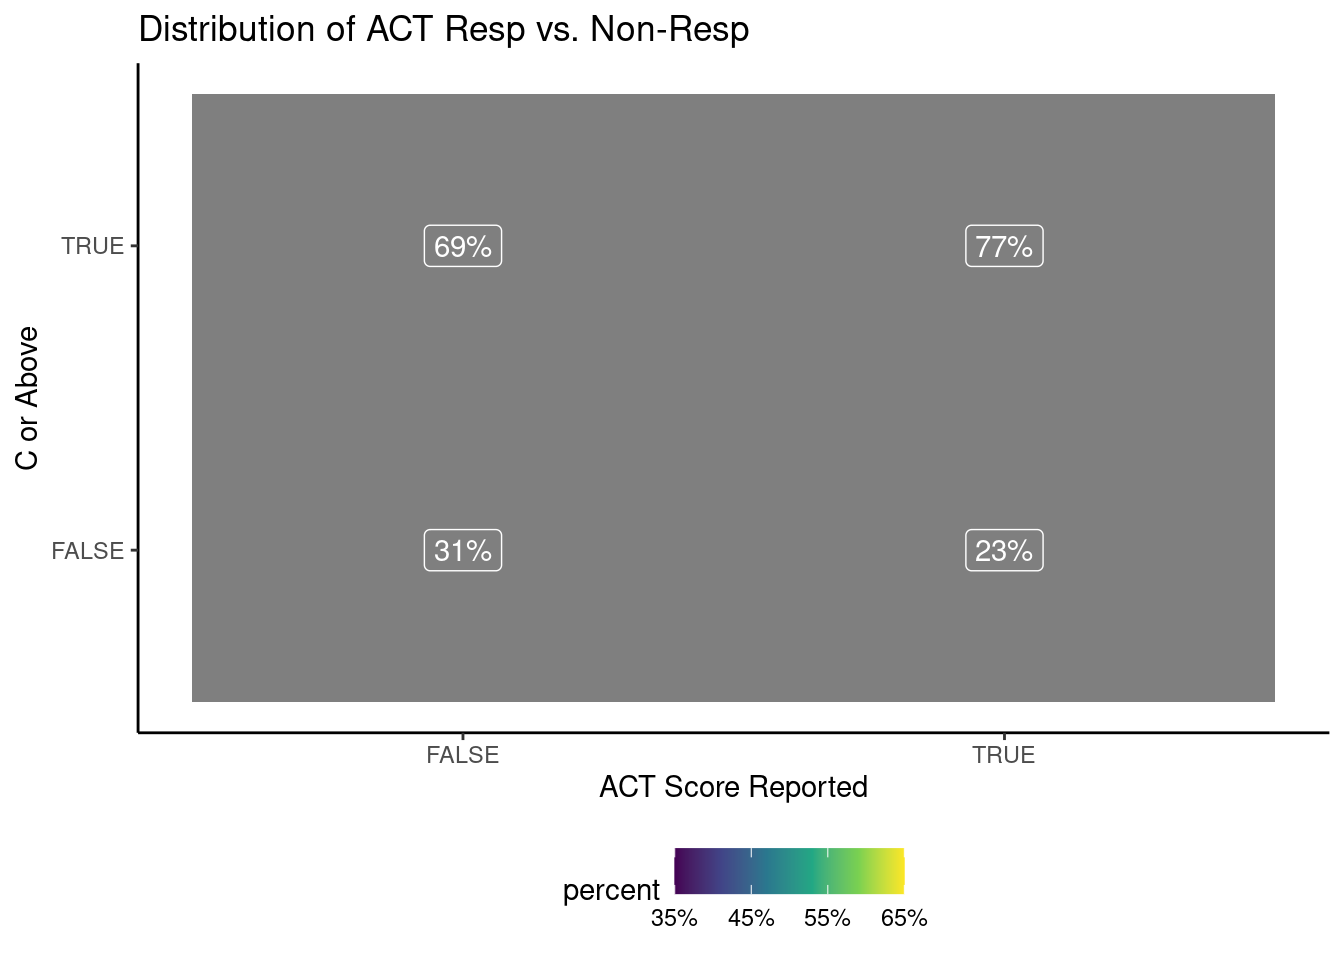
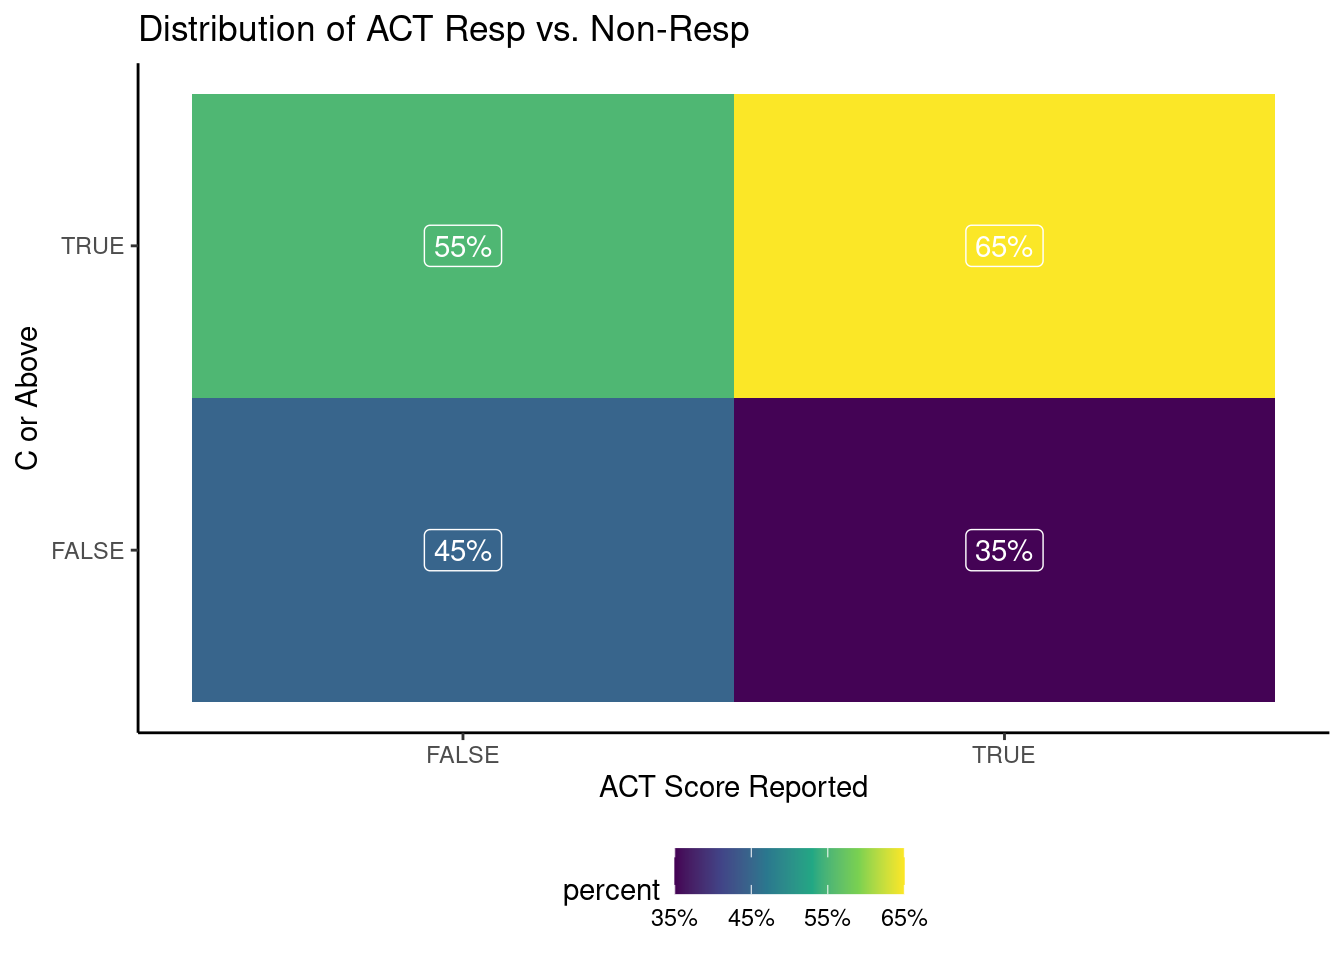
colors

diff --git a/content/post/2022-05-21-what-student-information-helps-predict-success-in-their-courses/index.html b/content/post/2022-05-21-what-student-information-helps-predict-success-in-their-courses/index.html
@@ -29,10 +29,10 @@ The nitty gritty of how the data was joined and cleaned
 <p>The resulting data set gives the first obstacle, handling <code>NA</code> values for numeric variables. On the one hand a scalar response lends itself to an elegant set of predictive methods, but at the same time not having a high school GPA entry is likely a significant indicator of academic success. The same goes for whether a student took the ACT or not. Even worse, the percentage of respondents missing one or the other are close to a quarter or a third.</p>
 <pre class="r"><code>lapply(cs[,.(act_score, hs_gpa_entry)], \(x) {length(x)/length(x[which(is.na(x))])})</code></pre>
 <pre><code>## $act_score
-## [1] 26.125
+## [1] 24.8786
 ## 
 ## $hs_gpa_entry
-## [1] 33.31884</code></pre>
+## [1] 32.27362</code></pre>
 <p>For each variable we will answer two questions that help us decide what to do next.</p>
 <ol style="list-style-type: decimal">
 <li>Is non-response predictive of course success?<br />
@@ -58,7 +58,7 @@ The nitty gritty of how the data was joined and cleaned
 ##  Pearson&#39;s Chi-squared test with Yates&#39; continuity correction
 ## 
 ## data:  table(copy(cs)[, .(act_na = is.na(act_score), success)])
-## X-squared = 17.788, df = 1, p-value = 2.469e-05</code></pre>
+## X-squared = 25.256, df = 1, p-value = 5.021e-07</code></pre>
 <p>We can see that the distribution of successful courses among students who have an ACT score is significantly different from those who did not report an ACT score. In fact, ACT reporting students are ~10% more likely to succeed.</p>
 <p>We will now look at the scalar portion of the variable by plotting the distribution of ACT scores against the official grades earned.</p>
 <pre class="r"><code>copy(cs) |&gt;
@@ -126,30 +126,30 @@ summary(m1)</code></pre>
 ## 
 ## Deviance Residuals: 
 ##     Min       1Q   Median       3Q      Max  
-## -2.1758   0.4437   0.6105   0.7812   1.1951  
+## -1.6830  -1.3553   0.8240   0.9391   1.3794  
 ## 
 ## Coefficients:
-##                                Estimate Std. Error z value Pr(&gt;|z|)    
-## (Intercept)                     0.91743    0.12320   7.447 9.57e-14 ***
-## act_score_factor(0,20]          0.15679    0.18300   0.857  0.39157    
-## act_score_factor(20,23]         0.24677    0.18168   1.358  0.17438    
-## act_score_factor(23,26]         0.01324    0.18362   0.072  0.94253    
-## act_score_factor(26,36]        -0.08667    0.18796  -0.461  0.64473    
-## hs_gpa_entry_factor(0.21,3.06] -0.25929    0.19736  -1.314  0.18891    
-## hs_gpa_entry_factor(3.06,3.42]  0.10000    0.19790   0.505  0.61335    
-## hs_gpa_entry_factor(3.42,3.76]  0.54155    0.19961   2.713  0.00667 ** 
-## hs_gpa_entry_factor(3.76,553]   1.10434    0.20298   5.441 5.31e-08 ***
-## hardship_score1                -0.34949    0.06815  -5.128 2.93e-07 ***
-## hardship_score2                -0.28039    0.06907  -4.059 4.92e-05 ***
-## hardship_score3                -0.61313    0.06405  -9.573  &lt; 2e-16 ***
+##                                 Estimate Std. Error z value Pr(&gt;|z|)    
+## (Intercept)                     0.267987   0.101069   2.652 0.008013 ** 
+## act_score_factor(0,20]          0.479640   0.145058   3.307 0.000945 ***
+## act_score_factor(20,23]         0.454296   0.143064   3.175 0.001496 ** 
+## act_score_factor(23,26]         0.138969   0.143963   0.965 0.334391    
+## act_score_factor(26,36]        -0.235107   0.145834  -1.612 0.106928    
+## hs_gpa_entry_factor(0.21,3.06]  0.005787   0.160164   0.036 0.971180    
+## hs_gpa_entry_factor(3.06,3.42]  0.183397   0.159372   1.151 0.249837    
+## hs_gpa_entry_factor(3.42,3.76]  0.376187   0.159420   2.360 0.018288 *  
+## hs_gpa_entry_factor(3.76,553]   0.390841   0.159927   2.444 0.014531 *  
+## hardship_score1                -0.281806   0.055104  -5.114 3.15e-07 ***
+## hardship_score2                -0.204608   0.056637  -3.613 0.000303 ***
+## hardship_score3                -0.502012   0.053537  -9.377  &lt; 2e-16 ***
 ## ---
 ## Signif. codes:  0 &#39;***&#39; 0.001 &#39;**&#39; 0.01 &#39;*&#39; 0.05 &#39;.&#39; 0.1 &#39; &#39; 1
 ## 
 ## (Dispersion parameter for binomial family taken to be 1)
 ## 
-##     Null deviance: 12002  on 11034  degrees of freedom
-## Residual deviance: 11493  on 11023  degrees of freedom
-## AIC: 11517
+##     Null deviance: 17041  on 13115  degrees of freedom
+## Residual deviance: 16745  on 13104  degrees of freedom
+## AIC: 16769
 ## 
 ## Number of Fisher Scoring iterations: 4</code></pre>
 <pre class="r"><code>?anova.glm
@@ -164,10 +164,10 @@ anova(m1, test = &quot;Chisq&quot;)</code></pre>
 ## 
 ## 
 ##                     Df Deviance Resid. Df Resid. Dev  Pr(&gt;Chi)    
-## NULL                                11034      12002              
-## act_score_factor     4    45.20     11030      11957 3.611e-09 ***
-## hs_gpa_entry_factor  4   363.44     11026      11594 &lt; 2.2e-16 ***
-## hardship_score       3   100.24     11023      11493 &lt; 2.2e-16 ***
+## NULL                                13115      17040              
+## act_score_factor     4  141.166     13111      16899 &lt; 2.2e-16 ***
+## hs_gpa_entry_factor  4   56.376     13107      16843 1.672e-11 ***
+## hardship_score       3   98.358     13104      16745 &lt; 2.2e-16 ***
 ## ---
 ## Signif. codes:  0 &#39;***&#39; 0.001 &#39;**&#39; 0.01 &#39;*&#39; 0.05 &#39;.&#39; 0.1 &#39; &#39; 1</code></pre>
 <pre class="r"><code>test_res &lt;- predict(m1, cs_test, type = &quot;response&quot;)
@@ -180,26 +180,26 @@ caret::confusionMatrix(test_res |&gt; as.factor(),
 ## 
 ##           Reference
 ## Prediction    0    1
-##          0    4    1
-##          1  637 2117
+##          0   66   47
+##          1 1119 2047
 ##                                           
-##                Accuracy : 0.7688          
-##                  95% CI : (0.7526, 0.7844)
-##     No Information Rate : 0.7677          
-##     P-Value [Acc &gt; NIR] : 0.4567          
+##                Accuracy : 0.6444          
+##                  95% CI : (0.6277, 0.6608)
+##     No Information Rate : 0.6386          
+##     P-Value [Acc &gt; NIR] : 0.2509          
 ##                                           
-##                   Kappa : 0.0088          
+##                   Kappa : 0.0414          
 ##                                           
 ##  Mcnemar&#39;s Test P-Value : &lt;2e-16          
 ##                                           
-##             Sensitivity : 0.006240        
-##             Specificity : 0.999528        
-##          Pos Pred Value : 0.800000        
-##          Neg Pred Value : 0.768700        
-##              Prevalence : 0.232331        
-##          Detection Rate : 0.001450        
-##    Detection Prevalence : 0.001812        
-##       Balanced Accuracy : 0.502884        
+##             Sensitivity : 0.05570         
+##             Specificity : 0.97755         
+##          Pos Pred Value : 0.58407         
+##          Neg Pred Value : 0.64656         
+##              Prevalence : 0.36139         
+##          Detection Rate : 0.02013         
+##    Detection Prevalence : 0.03446         
+##       Balanced Accuracy : 0.51663         
 ##                                           
 ##        &#39;Positive&#39; Class : 0               
 ## </code></pre>
